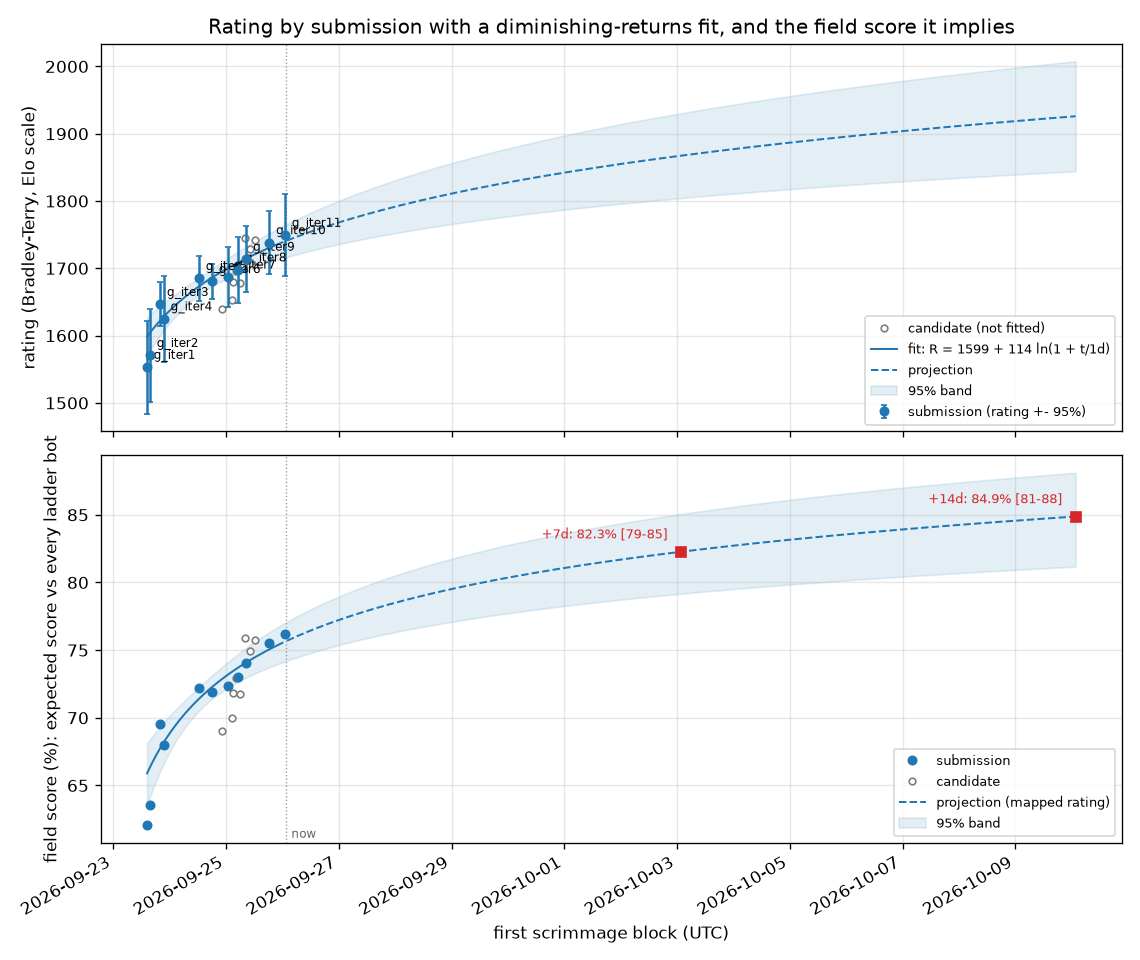
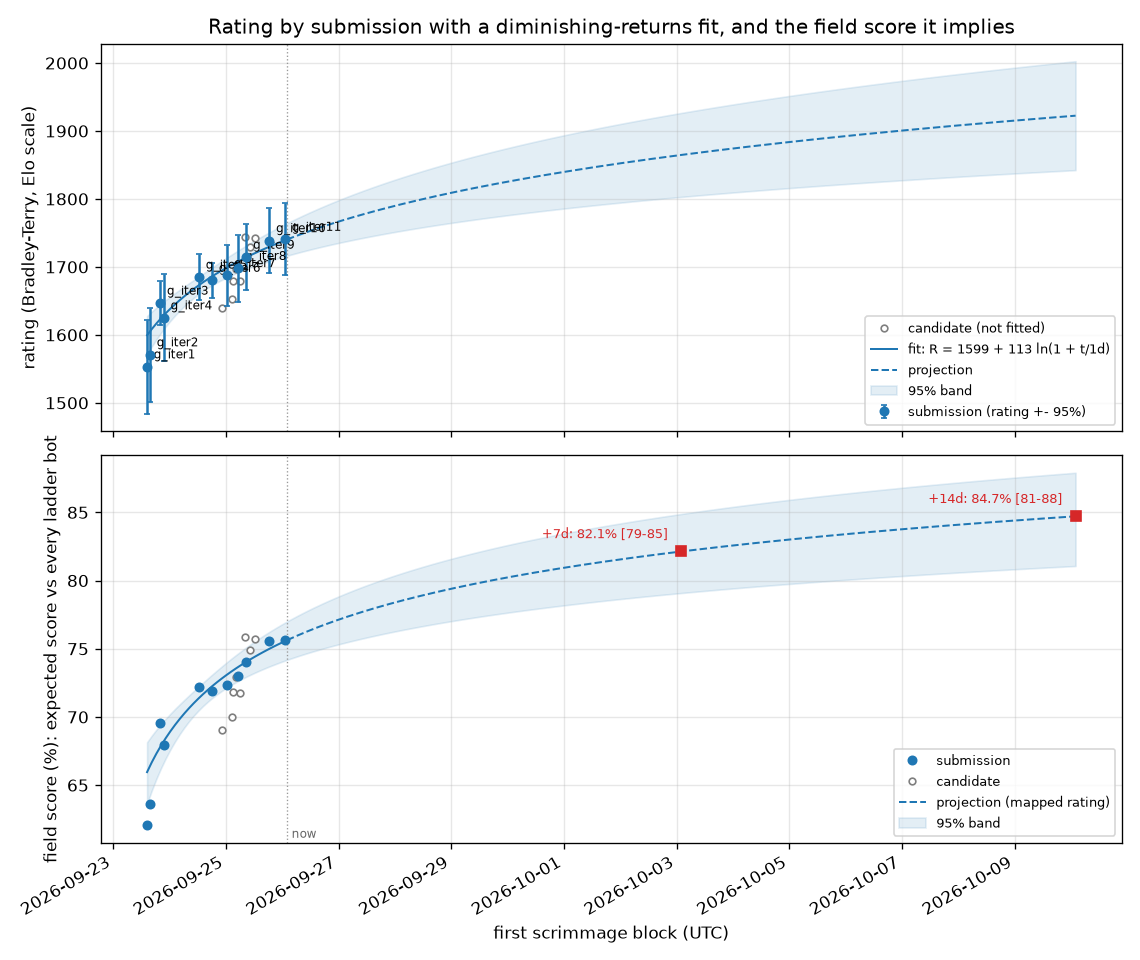
Submission block 20260926-013847-scrim-g_iter11 posted (g_iter11)
Claude-Session: https://claude.ai/code/session_015tNyF5ucwWW1mudpEQTT25

diff --git a/progress/ONSET.md b/progress/ONSET.md
@@ -1,6 +1,6 @@
 # Which metric starts predicting the result first
 
-42 games, 21 wins. Noise floor about 0.31; a correlation inside that band is not evidence.
+41 games, 18 wins. Noise floor about 0.31; a correlation inside that band is not evidence.
 
 Every metric is oriented so **higher is better for us**, so a positive correlation always means
 "this being better goes with winning". `~avg` is the running mean over all rounds so far rather than
@@ -12,46 +12,46 @@ See `progress/METRICS.md` for how each quantity is computed.
 
 | onset | anti | metric | peak corr | r100 | r200 | r300 | r400 | r600 | r900 |
 |---|---|---|---|---|---|---|---|---|---|
-| r50 | - | mines (us-them) | +0.48 | +0.43 | +0.35 | +0.32 | +0.32 | +0.43 | +0.45 |
-| r50 | - | mines (us-them) ~avg | +0.46 | +0.41 | +0.41 | +0.37 | +0.35 | +0.39 | +0.43 |
-| r50 | - | worth (us-them) | +0.66 | +0.43 | +0.37 | +0.39 | +0.45 | +0.57 | +0.58 |
-| r50 | - | worth (us-them) ~avg | +0.61 | +0.43 | +0.42 | +0.40 | +0.42 | +0.52 | +0.56 |
-| r100 | - | robots (us-them) | +0.62 | +0.31 | +0.27 | +0.39 | +0.37 | +0.56 | +0.60 |
-| r200 | - | robots (us-them) ~avg | +0.60 | +0.28 | +0.31 | +0.38 | +0.41 | +0.52 | +0.59 |
-| r200 | - | spawned (us-them) ~avg | +0.60 | +0.27 | +0.31 | +0.37 | +0.42 | +0.50 | +0.59 |
-| r250 | - | spawned (us-them) | +0.62 | +0.30 | +0.27 | +0.40 | +0.39 | +0.54 | +0.60 |
-| r250 | - | vaporators (us-them) | +0.65 | +0.07 | +0.21 | +0.52 | +0.54 | +0.63 | +0.65 |
-| r300 | - | vaporators (us-them) ~avg | +0.68 | +0.07 | +0.14 | +0.38 | +0.52 | +0.59 | +0.64 |
-| r450 | - | units (us-them) | +0.55 | +0.24 | +0.19 | +0.21 | +0.24 | +0.46 | +0.54 |
-| r500 | - | landscapers (us-them) | +0.61 | +0.20 | +0.16 | +0.13 | +0.20 | +0.44 | +0.61 |
-| r500 | - | pickups (us-them) | +0.44 | . | -0.01 | +0.13 | +0.16 | +0.39 | +0.44 |
-| r500 | - | units (us-them) ~avg | +0.52 | +0.21 | +0.23 | +0.23 | +0.24 | +0.38 | +0.52 |
-| r550 | - | moves (us-them) | +0.43 | -0.27 | -0.07 | +0.17 | +0.24 | +0.34 | +0.42 |
-| r600 | - | miners (us-them) | +0.51 | +0.03 | -0.00 | +0.15 | +0.12 | +0.33 | +0.50 |
-| r600 | - | pickups (us-them) ~avg | +0.43 | . | +0.04 | +0.10 | +0.13 | +0.32 | +0.43 |
-| r650 | - | landscapers (us-them) ~avg | +0.59 | +0.20 | +0.16 | +0.13 | +0.14 | +0.29 | +0.52 |
-| r700 | - | drones (us-them) | +0.35 | +0.07 | +0.13 | +0.06 | +0.08 | +0.24 | +0.35 |
-| r700 | - | moves (us-them) ~avg | +0.42 | -0.27 | -0.15 | +0.07 | +0.19 | +0.28 | +0.38 |
-| r750 | - | drones (us-them) ~avg | +0.34 | +0.07 | +0.12 | +0.13 | +0.12 | +0.20 | +0.34 |
-| r800 | - | miners (us-them) ~avg | +0.43 | +0.07 | +0.07 | +0.12 | +0.14 | +0.19 | +0.35 |
-| r850 | - | digs (us-them) | +0.50 | -0.00 | +0.03 | -0.00 | +0.01 | +0.14 | +0.37 |
-| r850 | - | dirtDeps (us-them) | +0.50 | +0.05 | +0.05 | -0.00 | -0.02 | +0.09 | +0.35 |
-| r1050 | - | digs (us-them) ~avg | +0.41 | -0.00 | +0.02 | -0.01 | -0.03 | +0.05 | +0.22 |
-| r1050 | - | dirtDeps (us-them) ~avg | +0.40 | +0.05 | +0.06 | -0.01 | -0.05 | +0.02 | +0.19 |
-| - | r500 | aba (us-them) [inverted] | -0.41 | +0.14 | -0.11 | -0.28 | -0.30 | -0.39 | -0.41 |
-| - | r500 | aba (us-them) [inverted] ~avg | -0.42 | +0.13 | -0.06 | -0.22 | -0.28 | -0.36 | -0.42 |
-| - | - | cov (us-them) | +0.18 | -0.09 | -0.02 | +0.04 | +0.06 | +0.14 | +0.16 |
-| - | - | cov (us-them) ~avg | +0.13 | -0.03 | -0.07 | -0.01 | +0.03 | +0.05 | +0.13 |
-| - | - | died (us-them) [inverted] | +0.25 | +0.16 | +0.06 | +0.11 | +0.12 | +0.25 | +0.18 |
-| - | - | died (us-them) [inverted] ~avg | +0.25 | +0.16 | +0.09 | +0.10 | +0.11 | +0.23 | +0.23 |
+| r50 | - | miners (us-them) ~avg | +0.39 | +0.24 | +0.16 | +0.18 | +0.21 | +0.26 | +0.33 |
+| r50 | - | mines (us-them) | +0.51 | +0.45 | +0.49 | +0.48 | +0.42 | +0.49 | +0.48 |
+| r50 | - | mines (us-them) ~avg | +0.50 | +0.45 | +0.49 | +0.48 | +0.45 | +0.46 | +0.46 |
+| r50 | - | robots (us-them) | +0.51 | +0.42 | +0.42 | +0.47 | +0.44 | +0.50 | +0.50 |
+| r50 | - | robots (us-them) ~avg | +0.49 | +0.46 | +0.44 | +0.46 | +0.45 | +0.47 | +0.49 |
+| r50 | - | spawned (us-them) | +0.50 | +0.42 | +0.41 | +0.43 | +0.41 | +0.48 | +0.50 |
+| r50 | - | spawned (us-them) ~avg | +0.47 | +0.46 | +0.44 | +0.44 | +0.43 | +0.45 | +0.47 |
+| r50 | - | units (us-them) | +0.51 | +0.36 | +0.27 | +0.37 | +0.38 | +0.50 | +0.50 |
+| r50 | - | units (us-them) ~avg | +0.50 | +0.41 | +0.34 | +0.36 | +0.37 | +0.44 | +0.50 |
+| r50 | - | worth (us-them) | +0.51 | +0.51 | +0.48 | +0.50 | +0.40 | +0.43 | +0.37 |
+| r50 | - | worth (us-them) ~avg | +0.50 | +0.50 | +0.50 | +0.49 | +0.44 | +0.41 | +0.39 |
+| r100 | - | digs (us-them) | +0.58 | +0.42 | +0.14 | +0.17 | +0.25 | +0.38 | +0.48 |
+| r100 | - | digs (us-them) ~avg | +0.51 | +0.42 | +0.19 | +0.17 | +0.19 | +0.30 | +0.42 |
+| r100 | - | dirtDeps (us-them) ~avg | +0.48 | +0.44 | +0.17 | +0.15 | +0.14 | +0.24 | +0.37 |
+| r150 | - | drones (us-them) ~avg | +0.35 | +0.27 | +0.25 | +0.30 | +0.31 | +0.29 | +0.28 |
+| r300 | - | died (us-them) [inverted] | +0.45 | . | +0.13 | +0.33 | +0.40 | +0.38 | +0.13 |
+| r300 | - | drones (us-them) | +0.37 | +0.27 | +0.06 | +0.31 | +0.30 | +0.25 | +0.26 |
+| r300 | - | pickups (us-them) | +0.55 | +0.04 | +0.21 | +0.33 | +0.50 | +0.52 | +0.50 |
+| r300 | - | pickups (us-them) ~avg | +0.54 | +0.09 | +0.22 | +0.30 | +0.43 | +0.51 | +0.54 |
+| r350 | - | died (us-them) [inverted] ~avg | +0.36 | . | +0.14 | +0.29 | +0.33 | +0.36 | +0.34 |
+| r450 | - | landscapers (us-them) | +0.64 | +0.31 | +0.24 | +0.23 | +0.24 | +0.50 | +0.64 |
+| r550 | - | landscapers (us-them) ~avg | +0.61 | +0.33 | +0.25 | +0.24 | +0.22 | +0.37 | +0.57 |
+| r550 | - | miners (us-them) | +0.39 | +0.03 | +0.12 | +0.20 | +0.23 | +0.33 | +0.37 |
+| r600 | - | dirtDeps (us-them) | +0.56 | +0.44 | +0.13 | +0.15 | +0.19 | +0.32 | +0.43 |
+| - | - | aba (us-them) [inverted] | +0.20 | +0.17 | +0.17 | +0.08 | +0.07 | +0.02 | -0.18 |
+| - | - | aba (us-them) [inverted] ~avg | +0.19 | +0.14 | +0.18 | +0.12 | +0.10 | +0.07 | -0.04 |
+| - | r50 | cov (us-them) | -0.48 | -0.40 | -0.25 | -0.00 | +0.19 | +0.18 | +0.18 |
+| - | r50 | cov (us-them) ~avg | -0.49 | -0.44 | -0.35 | -0.22 | -0.09 | +0.06 | +0.13 |
 | - | - | drowned (us-them) [inverted] | . | . | . | . | . | . | . |
 | - | - | drowned (us-them) [inverted] ~avg | . | . | . | . | . | . | . |
-| - | - | hqBuried (us-them) [inverted] | +0.17 | +0.16 | +0.17 | +0.17 | . | . | . |
-| - | - | hqBuried (us-them) [inverted] ~avg | +0.19 | +0.16 | +0.17 | +0.19 | +0.18 | +0.18 | +0.18 |
-| - | - | netguns (us-them) | -0.20 | . | -0.20 | -0.06 | -0.15 | +0.11 | +0.15 |
-| - | - | netguns (us-them) ~avg | -0.20 | . | -0.20 | -0.11 | -0.13 | -0.07 | +0.05 |
-| - | - | soup (us-them) | +0.34 | +0.02 | +0.18 | -0.04 | -0.00 | +0.19 | -0.00 |
-| - | - | soup (us-them) ~avg | +0.34 | +0.11 | +0.25 | +0.05 | +0.02 | +0.07 | +0.07 |
+| - | - | hqBuried (us-them) [inverted] | +0.20 | +0.14 | +0.14 | +0.14 | . | . | . |
+| - | - | hqBuried (us-them) [inverted] ~avg | +0.20 | +0.14 | +0.18 | +0.14 | +0.14 | +0.14 | +0.14 |
+| - | r50 | moves (us-them) | -0.42 | -0.31 | -0.07 | +0.10 | +0.16 | +0.18 | +0.29 |
+| - | r50 | moves (us-them) ~avg | -0.43 | -0.36 | -0.15 | +0.03 | +0.13 | +0.15 | +0.21 |
+| - | - | netguns (us-them) | +0.28 | . | +0.18 | +0.25 | +0.28 | +0.28 | +0.20 |
+| - | - | netguns (us-them) ~avg | +0.29 | . | +0.14 | +0.19 | +0.23 | +0.28 | +0.26 |
+| - | - | soup (us-them) | +0.32 | +0.02 | +0.10 | +0.31 | +0.29 | +0.05 | -0.08 |
+| - | - | soup (us-them) ~avg | +0.25 | -0.06 | +0.21 | +0.21 | +0.23 | +0.14 | +0.00 |
+| - | - | vaporators (us-them) | +0.29 | -0.28 | +0.11 | +0.16 | +0.17 | +0.29 | +0.20 |
+| - | - | vaporators (us-them) ~avg | -0.28 | -0.28 | -0.06 | +0.10 | +0.16 | +0.22 | +0.23 |
 
 **Reading it.** Earliest onset is the first place to look: temporal precedence is the one causal hint a
 correlation can honestly give. Late-onset metrics are usually the scoreboard rather than the cause -- by then

diff --git a/progress/ELO.md b/progress/ELO.md
@@ -1,28 +1,28 @@
 # Ladder
 
-5465 scrimmages (ours only), 4941 distinct (a repeated pairing with the same seed replays the same game and counts once), rated by a batch Bradley-Terry fit on the Elo scale (`tools/elolib.py`); each of our builds is its own player. 65 of 65 ladder bots met.
+5513 scrimmages (ours only), 4989 distinct (a repeated pairing with the same seed replays the same game and counts once), rated by a batch Bradley-Terry fit on the Elo scale (`tools/elolib.py`); each of our builds is its own player. 65 of 65 ladder bots met.
 
 Our builds (rating +- 95%; field score = expected score against every ladder bot, one game each):
 
 | build | rating | rank | games | record | field score |
 |---|---|---|---|---|---|
-| g_iter11 | 1749 +- 61 | 13 of 85 | 144 | 64-80 | 76.2% |
 | cand43b | 1744 +- 79 | 14 of 85 | 96 | 64-32 | 75.9% |
-| cand49b | 1742 +- 75 | 16 of 85 | 96 | 42-54 | 75.7% |
-| g_iter10 | 1738 +- 47 | 18 of 85 | 240 | 103-137 | 75.5% |
-| cand47d | 1728 +- 53 | 19 of 85 | 192 | 73-119 | 74.9% |
-| g_iter9 | 1714 +- 49 | 21 of 85 | 240 | 78-162 | 74.0% |
+| cand49b | 1742 +- 75 | 15 of 85 | 96 | 42-54 | 75.8% |
+| g_iter11 | 1741 +- 53 | 17 of 85 | 192 | 83-109 | 75.7% |
+| g_iter10 | 1739 +- 48 | 18 of 85 | 240 | 103-137 | 75.5% |
+| cand47d | 1729 +- 53 | 19 of 85 | 192 | 73-119 | 74.9% |
+| g_iter9 | 1714 +- 49 | 21 of 85 | 240 | 78-162 | 74.1% |
 | g_iter8 | 1698 +- 49 | 22 of 85 | 240 | 108-132 | 73.0% |
 | cand41b | 1696 +- 76 | 23 of 85 | 96 | 51-45 | 72.9% |
 | g_iter7 | 1687 +- 44 | 24 of 85 | 288 | 135-153 | 72.3% |
 | g_iter5 | 1685 +- 34 | 25 of 85 | 618 | 329-289 | 72.2% |
 | g_iter6 | 1680 +- 26 | 26 of 85 | 886 | 450-436 | 71.9% |
-| cand40c | 1680 +- 77 | 27 of 85 | 96 | 57-39 | 71.9% |
+| cand40c | 1680 +- 77 | 27 of 85 | 96 | 57-39 | 71.8% |
 | cand42c | 1679 +- 76 | 28 of 85 | 96 | 49-47 | 71.8% |
 | iter24 | 1654 +- 129 | 29 of 85 | 46 | 11-35 | 70.1% |
 | cand37 | 1653 +- 76 | 30 of 85 | 96 | 46-50 | 70.0% |
-| g_iter3 | 1646 +- 33 | 31 of 85 | 796 | 167-629 | 69.5% |
-| cand31 | 1640 +- 76 | 32 of 85 | 96 | 52-44 | 69.1% |
+| g_iter3 | 1647 +- 33 | 31 of 85 | 796 | 167-629 | 69.5% |
+| cand31 | 1640 +- 76 | 32 of 85 | 96 | 52-44 | 69.0% |
 | g_iter4 | 1625 +- 64 | 33 of 85 | 217 | 43-174 | 68.0% |
 | g_iter2 | 1571 +- 69 | 34 of 85 | 192 | 44-148 | 63.6% |
 | g_iter1 | 1553 +- 69 | 35 of 85 | 170 | 95-75 | 62.1% |
@@ -30,25 +30,25 @@ Our builds (rating +- 95%; field score = expected score against every ladder bot
 | rank | player | rating | +- 95% | games | W-L |
 |---|---|---|---|---|---|
 | 1 | awesomelemonade.citricsky | 2250 | 200 | 103 | 101-2 |
-| 2 | uvafan.v14_final_bot | 2240 | 200 | 98 | 96-2 |
+| 2 | uvafan.v14_final_bot | 2241 | 200 | 98 | 96-2 |
 | 3 | AngusRitossa.newbot | 2181 | 174 | 95 | 92-3 |
 | 4 | StoneT2000.FinalChowBotStable | 1996 | 212 | 21 | 19-2 |
 | 5 | rzhan11.quals_bot | 1990 | 115 | 86 | 77-9 |
 | 6 | battlecode20-team4.finalbota | 1987 | 65 | 226 | 195-31 |
 | 7 | IvanGeffner.finalbota | 1987 | 105 | 101 | 90-11 |
 | 8 | ronniesong0809.finalbota | 1980 | 105 | 97 | 86-11 |
-| 9 | winkelmantanner.tannerplayer | 1954 | 55 | 266 | 219-47 |
-| 10 | mvpatel2000.qual | 1926 | 53 | 253 | 202-51 |
-| 11 | EmaPajic.Qualifications | 1920 | 47 | 317 | 251-66 |
-| 12 | poortho.stable_seeding_bot | 1829 | 34 | 485 | 337-148 |
-| 13 | **us:g_iter11** | 1749 | 61 | 144 | 64-80 |
+| 9 | winkelmantanner.tannerplayer | 1956 | 54 | 272 | 224-48 |
+| 10 | mvpatel2000.qual | 1928 | 53 | 259 | 207-52 |
+| 11 | EmaPajic.Qualifications | 1921 | 47 | 323 | 256-67 |
+| 12 | poortho.stable_seeding_bot | 1828 | 33 | 491 | 340-151 |
+| 13 | laurenschneider.pdx_team_one | 1746 | 31 | 506 | 296-210 |
 | 14 | **us:cand43b** | 1744 | 79 | 96 | 64-32 |
-| 15 | laurenschneider.pdx_team_one | 1743 | 31 | 500 | 291-209 |
-| 16 | **us:cand49b** | 1742 | 75 | 96 | 42-54 |
-| 17 | cormackikkert.whyPermutator | 1742 | 31 | 493 | 286-207 |
-| 18 | **us:g_iter10** | 1738 | 47 | 240 | 103-137 |
-| 19 | **us:cand47d** | 1728 | 53 | 192 | 73-119 |
-| 20 | benzyx.seeding | 1719 | 31 | 496 | 272-224 |
+| 15 | **us:cand49b** | 1742 | 75 | 96 | 42-54 |
+| 16 | cormackikkert.whyPermutator | 1742 | 31 | 499 | 289-210 |
+| 17 | **us:g_iter11** | 1741 | 53 | 192 | 83-109 |
+| 18 | **us:g_iter10** | 1739 | 48 | 240 | 103-137 |
+| 19 | **us:cand47d** | 1729 | 53 | 192 | 73-119 |
+| 20 | benzyx.seeding | 1719 | 31 | 502 | 275-227 |
 | 21 | **us:g_iter9** | 1714 | 49 | 240 | 78-162 |
 | 22 | **us:g_iter8** | 1698 | 49 | 240 | 108-132 |
 | 23 | **us:cand41b** | 1696 | 76 | 96 | 51-45 |
@@ -59,12 +59,12 @@ Our builds (rating +- 95%; field score = expected score against every ladder bot
 | 28 | **us:cand42c** | 1679 | 76 | 96 | 49-47 |
 | 29 | **us:iter24** | 1654 | 129 | 46 | 11-35 |
 | 30 | **us:cand37** | 1653 | 76 | 96 | 46-50 |
-| 31 | **us:g_iter3** | 1646 | 33 | 796 | 167-629 |
+| 31 | **us:g_iter3** | 1647 | 33 | 796 | 167-629 |
 | 32 | **us:cand31** | 1640 | 76 | 96 | 52-44 |
 | 33 | **us:g_iter4** | 1625 | 64 | 217 | 43-174 |
 | 34 | **us:g_iter2** | 1571 | 69 | 192 | 44-148 |
 | 35 | **us:g_iter1** | 1553 | 69 | 170 | 95-75 |
-| 36 | wpine215.stardustv2 | 1510 | 36 | 449 | 122-327 |
+| 36 | wpine215.stardustv2 | 1507 | 36 | 455 | 122-333 |
 | 37 | mhahn2003.nonrush | 1459 | 52 | 250 | 56-194 |
 | 38 | eggag32.BrutalPigeonBot | 1458 | 59 | 194 | 42-152 |
 | 39 | ARognes.FinalSubmission | 1418 | 147 | 31 | 6-25 |
@@ -75,10 +75,10 @@ Our builds (rating +- 95%; field score = expected score against every ladder bot
 | 44 | jenlz.bustedJulianbot | 1384 | 274 | 8 | 1-7 |
 | 45 | yaonam.Robot_1 | 1381 | 155 | 33 | 5-28 |
 | 46 | Tim-gubski.AngryWaffleMaker | 1371 | 155 | 32 | 5-27 |
-| 47 | opheez.landscapers | 1367 | 271 | 9 | 1-8 |
-| 48 | ovimura.welovesoup | 1367 | 271 | 9 | 1-8 |
-| 49 | rsandzimier.SandSibs_seeding | 1367 | 271 | 9 | 1-8 |
-| 50 | thissop.alpha | 1367 | 271 | 9 | 1-8 |
+| 47 | opheez.landscapers | 1368 | 271 | 9 | 1-8 |
+| 48 | ovimura.welovesoup | 1368 | 271 | 9 | 1-8 |
+| 49 | rsandzimier.SandSibs_seeding | 1368 | 271 | 9 | 1-8 |
+| 50 | thissop.alpha | 1368 | 271 | 9 | 1-8 |
 | 51 | cosimogonnelli.Team3player | 1346 | 276 | 7 | 1-6 |
 | 52 | LucianCov.ourRobot | 1332 | 387 | 3 | 0-3 |
 | 53 | MrHoseongLee.Neptune_v3 | 1332 | 387 | 3 | 0-3 |

diff --git a/BENCHMARK.md b/BENCHMARK.md
@@ -171,7 +171,7 @@ build with at least 200 recorded games: a candidate's short ladder arm never re-
 | `benzyx.espada` | benzyx_bc20-waterloo (05df2e7) | - | - | untested |  |
 | `benzyx.firstplayer` | benzyx_bc20-waterloo (05df2e7) | - | - | untested |  |
 | `benzyx.kurobot` | benzyx_bc20-waterloo (05df2e7) | - | - | untested |  |
-| `benzyx.seeding` | benzyx_bc20-waterloo (05df2e7) | 63 | 30 | peer | 25 17 50 40 25 45 41 33 36 33 33 58 50 25 58 53 50 50 63 67 |
+| `benzyx.seeding` | benzyx_bc20-waterloo (05df2e7) | 63 | 30 | peer | 25 17 50 40 25 45 41 33 36 33 33 58 50 25 58 53 50 50 63 62 |
 | `benzyx.tortuga` | benzyx_bc20-waterloo (05df2e7) | - | - | untested |  |
 | `charboltron.master_player` | charboltron_pdx_battlecode_2020_team_11 (f78f1e3) | - | - | untested |  |
 | `charboltron.team11newbot` | charboltron_pdx_battlecode_2020_team_11 (f78f1e3) | 100 | 2 | peer(>90 once) | 100 100 |
@@ -203,7 +203,7 @@ build with at least 200 recorded games: a candidate's short ladder arm never re-
 | `kylittle.deliriumv1` | kylittle_DeliriumBattlecode (17a94dd) | - | - | untested |  |
 | `kylittle.qualsbot` | kylittle_DeliriumBattlecode (17a94dd) | - | - | untested |  |
 | `kylittle.qualsbot2` | kylittle_DeliriumBattlecode (17a94dd) | 100 | 2 | peer(>90 once) | 100 100 |
-| `laurenschneider.pdx_team_one` | laurenschneider_battlecode20-PDXTeamOne (2965376) | 50 | 30 | peer | 0 50 39 14 0 47 38 0 50 50 50 42 47 42 50 47 50 42 50 61 |
+| `laurenschneider.pdx_team_one` | laurenschneider_battlecode20-PDXTeamOne (2965376) | 50 | 30 | peer | 0 50 39 14 0 47 38 0 50 50 50 42 47 42 50 47 50 42 50 50 |
 | `lfchain.bigBudsBot` | lfchain_Battlecode2020 (b026153) | 100 | 2 | peer(>90 once) | 100 100 |
 | `lfchain.fBot` | lfchain_Battlecode2020 (b026153) | - | - | untested |  |
 | `lfchain.jBot` | lfchain_Battlecode2020 (b026153) | - | - | untested |  |
@@ -246,7 +246,7 @@ build with at least 200 recorded games: a candidate's short ladder arm never re-
 | `mvpatel2000.oldhades` | mvpatel2000_Battlecode2020 (554943e) | - | - | untested |  |
 | `mvpatel2000.poseidon` | mvpatel2000_Battlecode2020 (554943e) | - | - | untested |  |
 | `mvpatel2000.quail` | mvpatel2000_Battlecode2020 (554943e) | - | - | untested |  |
-| `mvpatel2000.qual` | mvpatel2000_Battlecode2020 (554943e) | 23 | 30 | target | 0 8 24 13 67 12 0 12 20 46 8 23 28 |
+| `mvpatel2000.qual` | mvpatel2000_Battlecode2020 (554943e) | 23 | 30 | target | 0 8 24 13 67 12 0 12 20 46 8 23 25 |
 | `mvpatel2000.qualAttacc` | mvpatel2000_Battlecode2020 (554943e) | - | - | untested |  |
 | `mvpatel2000.qualNoAtacc` | mvpatel2000_Battlecode2020 (554943e) | - | - | untested |  |
 | `mvpatel2000.seeding` | mvpatel2000_Battlecode2020 (554943e) | - | - | untested |  |
@@ -280,7 +280,7 @@ build with at least 200 recorded games: a candidate's short ladder arm never re-
 | `poortho.rush` | poortho_battlecode-2020 (ebbd61e) | - | - | untested |  |
 | `poortho.rush_bot` | poortho_battlecode-2020 (ebbd61e) | - | - | untested |  |
 | `poortho.stable_miner1` | poortho_battlecode-2020 (ebbd61e) | - | - | untested |  |
-| `poortho.stable_seeding_bot` | poortho_battlecode-2020 (ebbd61e) | 27 | 30 | target | 0 17 27 31 0 30 31 50 39 33 25 33 33 17 42 37 33 17 27 28 |
+| `poortho.stable_seeding_bot` | poortho_battlecode-2020 (ebbd61e) | 27 | 30 | target | 0 17 27 31 0 30 31 50 39 33 25 33 33 17 42 37 33 17 27 33 |
 | `ps789.dennisTestPlayer` | ps789_AZBattlecode (f1d54ab) | - | - | untested |  |
 | `ps789.phillipTestPlayer` | ps789_AZBattlecode (f1d54ab) | - | - | untested |  |
 | `ronniesong0809.finalbota` | ronniesong0809_battlecode20-RADS (1cee065) | 0 | 11 | locked | 0 18 15 7 0 0 |
@@ -326,9 +326,9 @@ build with at least 200 recorded games: a candidate's short ladder arm never re-
 | `willBoyd8.droideka` | willBoyd8_BattleDroid (4b1d4ad) | - | - | untested |  |
 | `willBoyd8.empire` | willBoyd8_BattleDroid (4b1d4ad) | - | - | untested |  |
 | `willBoyd8.mouse` | willBoyd8_BattleDroid (4b1d4ad) | - | - | untested |  |
-| `winkelmantanner.tannerplayer` | winkelmantanner_battlecode2020_the-levee-builders (7f49f11) | 17 | 30 | locked | 0 25 15 23 0 36 12 8 23 17 25 17 22 |
+| `winkelmantanner.tannerplayer` | winkelmantanner_battlecode2020_the-levee-builders (7f49f11) | 17 | 30 | locked | 0 25 15 23 0 36 12 8 23 17 25 17 21 |
 | `wpine215.stardustv1` | wpine215_battlecode (d570d57) | - | - | untested |  |
-| `wpine215.stardustv2` | wpine215_battlecode (d570d57) | 73 | 30 | peer | 0 30 50 65 100 70 77 58 78 83 67 75 87 100 83 67 100 73 83 |
+| `wpine215.stardustv2` | wpine215_battlecode (d570d57) | 73 | 30 | peer | 0 30 50 65 100 70 77 58 78 83 67 75 87 100 83 67 100 73 88 |
 | `yaonam.Robot_1` | yaonam_battlecode2020 (bb363f5) | 83 | 12 | peer | 62 100 83 100 |
 
 285 bot packages from 68 repositories.
